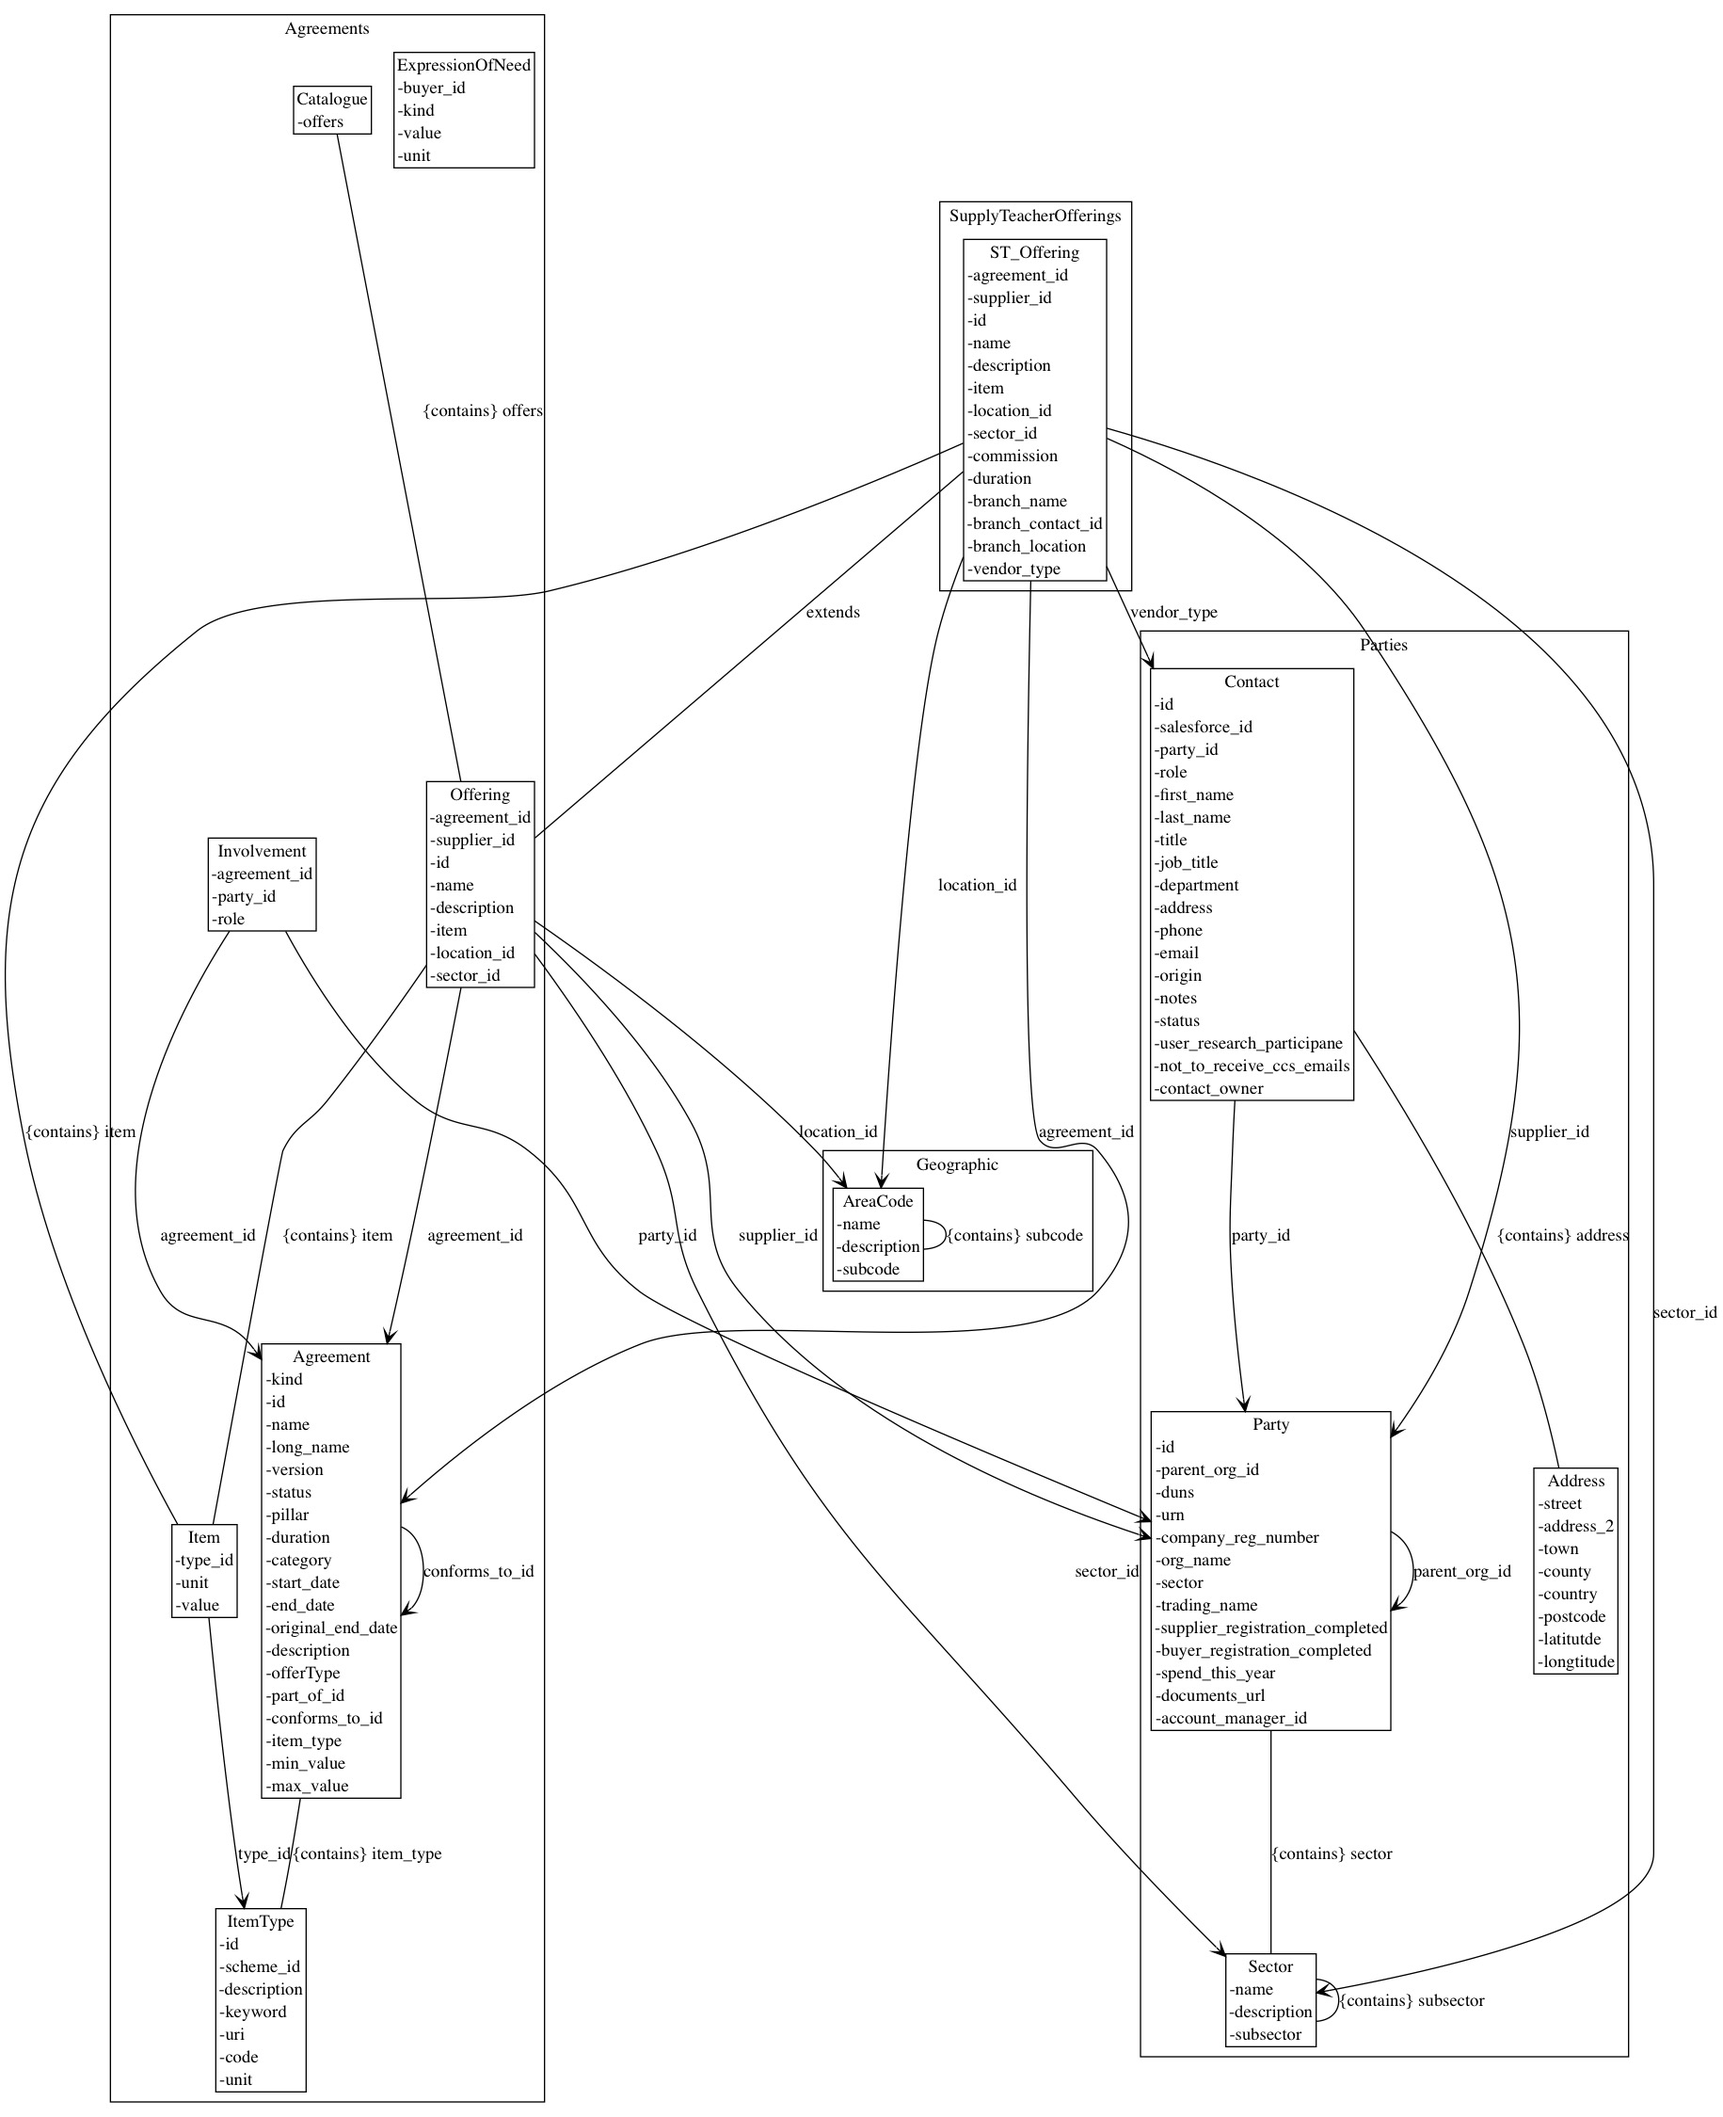
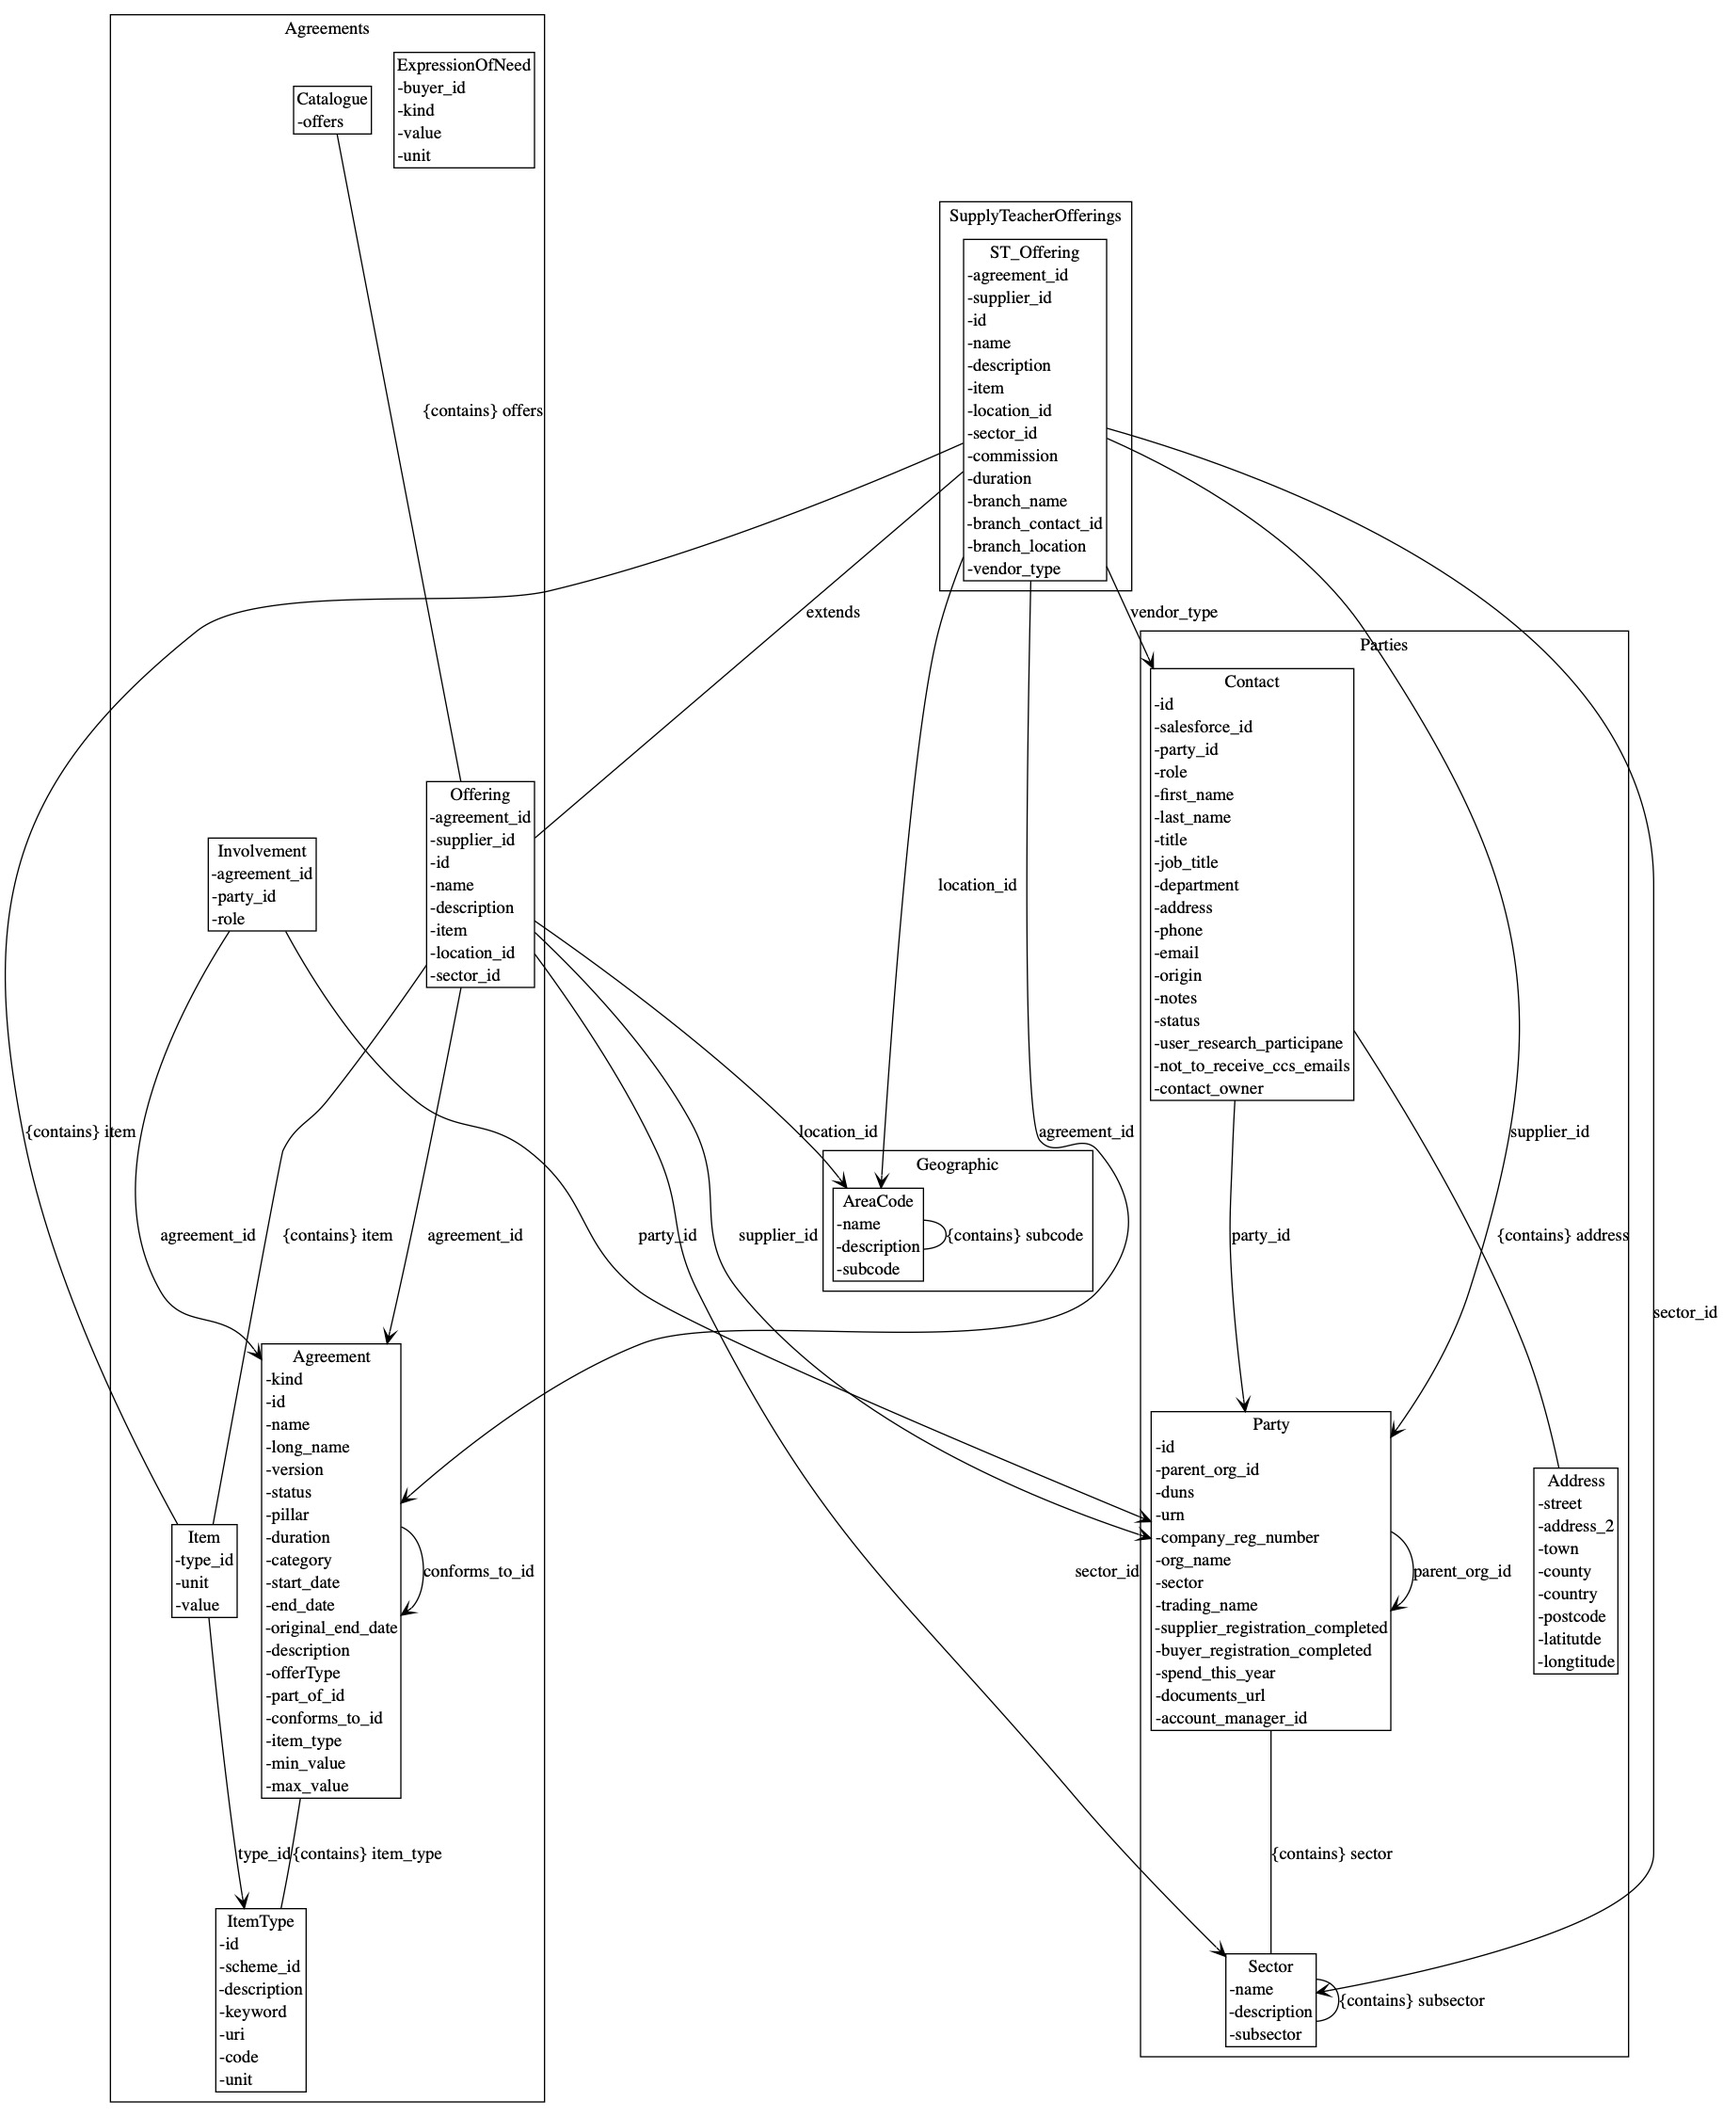
Comments in API pending extracting agreement design

diff --git a/agreement-design/model/apprenticeships.rb b/agreement-design/model/apprenticeships.rb
@@ -7,20 +7,20 @@ APPRENTICESHIPS_FRAMEWORK_ID = "RM6102"
 APPRENTICESHIPS_TRAINING_ID = "#{APPRENTICESHIPS_FRAMEWORK_ID}.2"
 
 # Apprenticeships item coding
-QUALIFICATIONS= [ :Qualification_One, :Qualification_Two]
-PATHWAY_SECTOR = Selection( :Central_Gov, :education)
+QUALIFICATIONS = [:Qualification_One, :Qualification_Two]
+PATHWAY_SECTOR = Selection(:Central_Gov, :education)
 LEVEL = Selection (:SomeLevel)
 BAND = Selection(:LowBands, :HighBand)
-REGION= Selection( :UK, :UKC1) # should include all the NUTS codes
-ABILITY_TO_BESPOKE= Selection( :Bespokable, :NotBespokable)
+REGION = Selection(:UK, :UKC1) # should include all the NUTS codes
+ABILITY_TO_BESPOKE = Selection(:Bespokable, :NotBespokable)
 
-def at_code( sector, level, band, region, bespokeable)
+def at_code(sector, level, band, region, bespokeable)
   "#{sector}-#{level}-#{band}-#{region}-#{bespokeable}"
 end
 
 Agreements.new(:Apprenticeships_Agreements) {
 
-  AP = agreement {
+  AT = agreement {
     kind :Framework
     name "Apprenticeships - get desc from SF"
     long_name name
@@ -36,25 +36,57 @@ Agreements.new(:Apprenticeships_Agreements) {
     offerType
   }
 
-
   agreement {
     kind :Lot
     id APPRENTICESHIPS_TRAINING_ID
     name "Apprenticeships "
     long_name name
     part_of_id APPRENTICESHIPS_FRAMEWORK_ID
-    pillar AP.pillar
-    category AP.category
-    offerType "SupplyTeacherOfferings::ST_Offering"
+    pillar AT.pillar
+    category AT.category
+    offerType "ApprenticeshipsOfferings::AT_Offering"
     version "0.1.0"
 
     item_type {
       description "Train builders for schools"
-      id at_code( :education, :SomeLevel, :LowBand, :UKC1, :NotBespokable )
+      id at_code(:education, :SomeLevel, :LowBand, :UKC1, :NotBespokable)
       keyword "school builders"
       keyword "builders"
     }
   }
 
-
 }
+
+domain(:ApprenticeshipsOfferings) {
+
+  datatype(:AT_Offering, extends: Agreements::Offering,
+           description: " An offer for AT ") {
+    attribute :entry_requirements, String, ZERO_TO_MANY, "Standard requirements of Entry to the Standard / Framework"
+    attribute :outcomes, String, ZERO_TO_MANY, "Potential career paths, Job Roles"
+    attribute :qualifications_required, String, ZERO_TO_MANY, " link to code identifying a qualification.
+Qualifications Required	Qualification required to attend the training"
+    attribute :qualifications_awarded, String, ZERO_TO_MANY, " link to code identifying a qualification.
+QQualifications Awarded	Qualifications outcomes apprentices will receive"
+    attribute :minimum_order_numnber, Integer, "number of people who can be placed. "
+    attribute :maximum_order_numnber, Integer, "number of people who can be placed. "
+    attribute :dates, Date, ZERO_TO_MANY, "Dates within academic year - presumably updated every year?"
+    attribute :branch_name, String, "branch name from which the offer is supplied"
+    attribute :branch_contact_id, String, "links to contact at the address", links: Parties::Contact
+    attribute :branch_location, String, "postcode of branch"
+  }
+}
+
+domain(:ApprenticeshipsSupplierDetails) {
+
+  datatype(:AT_Supplier, description: "Extra supplier details periodically given for supplier, that may affect buyer searches") do
+    attribute :esfa_provider_type, Selection(:Training, :EPA, :Both), "Type of provider"
+    attribute :esfa_ukprn, String, "ESFA Provider reference number"
+    attribute :overall_ofsted_rating, String, "String, source: :OFFSTED"
+    attribute :esfa_provider_overview, String, "Overview of provider on ESFA website"
+    attribute :achievement_rates_provider, String, "Currnt Provider Achievement Rates"
+    attribute :cyber_security_standards, String, "Cyber security standards (Y / N)"
+    attribute :subcontracting, String,  "Is the supplier subcontracting (Y / N)"
+  end
+}
+
+

diff --git a/agreement-design/src/data_model.rb b/agreement-design/src/data_model.rb
@@ -49,9 +49,9 @@ module DataModel
         @extends < DataType ? @extends.name : nil
       end
 
-      def attribute(name, type, *args, multiplicity: SINGLE, description: "", links: nil)
+      def attribute(name, type, *args, multiplicity: SINGLE, description: "", links: nil, source: nil)
         type = getType(type)
-        options = {:multiplicity => multiplicity, :description => description, :name => name, :type => type}
+        options = {:multiplicity => multiplicity, :description => description, :name => name, :type => type, :source => source}
         options[:links] = getType(links)
 
         for opt in args

diff --git a/agreement-design/src/api.rb b/agreement-design/src/api.rb
@@ -1,6 +1,10 @@
 require_relative 'transform'
 include Transform
 
+# - create a file for each data type
+# - create a file for each end point, referencing files
+#   - link [https://swagger.io/docs/specification/using-ref/]
+# - consier API endpoint config, e.g. AWS - [https://app.swaggerhub.com/help/integrations/amazon-api-gateway]
 class API < Output
 
   # Not implemented yet

diff --git a/agreement-design/gen/doc/apprenticeships.md b/agreement-design/gen/doc/apprenticeships.md
@@ -4,7 +4,7 @@
    - kind Framework
    - name Apprenticeships - get desc from SF
    - long_name Apprenticeships - get desc from SF
-   - id DON'T KNOW YET
+   - id RM6102
    - pillar People
    - status Live
    - category Workforce
@@ -15,13 +15,13 @@
    - end_date 2018-08-30
 ### Agreement - Apprenticeships  
    - kind Lot
-   - id DON'T KNOW YET.2
+   - id RM6102.2
    - name Apprenticeships 
    - long_name Apprenticeships 
-   - part_of_id DON'T KNOW YET
+   - part_of_id RM6102
    - pillar People
    - category Workforce
-   - offerType SupplyTeacherOfferings::ST_Offering
+   - offerType ApprenticeshipsOfferings::AT_Offering
    - version 0.1.0
 #### ItemType - item_type 
      - description Train builders for schools
